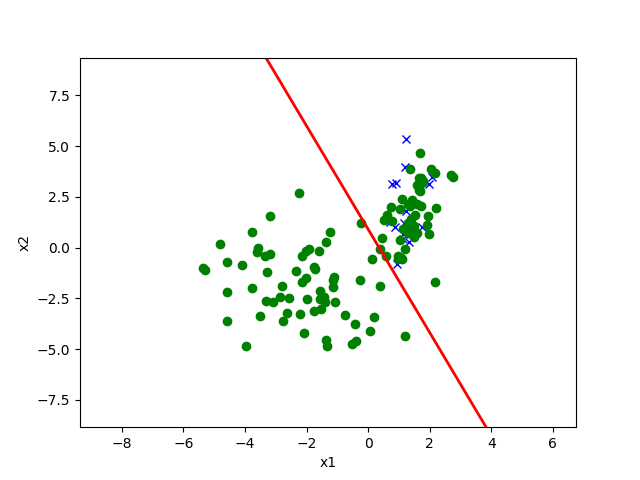
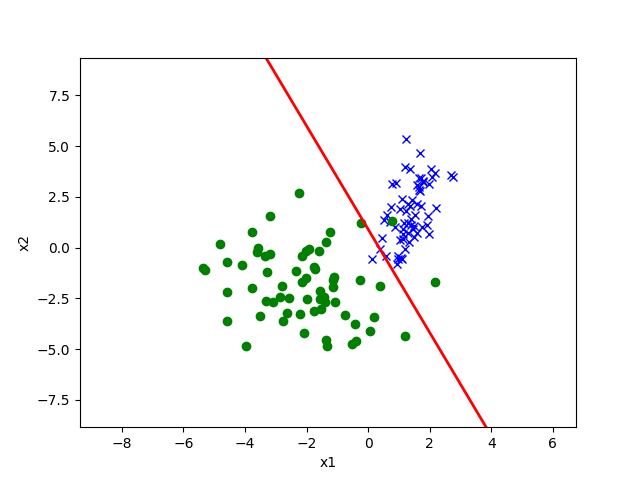
PosOnly working

Changed region(s): [[0.5625, 0.3125, 0.7188, 0.5625]]

diff --git a/posonly/posonly.py b/posonly/posonly.py
@@ -82,22 +82,22 @@ def main(train_path, valid_path, test_path, save_path):
 
     # Run CLF on the valid data set to generate the predictions on valid.
     # Use the predictions and y data to calculate alpha.
-    clf_valid = LogisticRegression()
-    clf_valid.fit(x_valid, t_valid)
+    clf_f = LogisticRegression()
+    clf_f.fit(x_train, t_train)
 
-    predictions_valid = clf_b.predict(x_valid)
+    predictions_for_valid = clf_f.predict(x_valid)
 
-    predicted_alpha = predict_alpha(y_valid, predictions_valid)
+    alpha = predict_alpha(t_valid, predictions_for_valid)
 
     # Run the CLF from part b on test data
-    clf_f = LogisticRegression(alpha = .7)
-    clf_f.fit(x_valid, y_valid)
 
     predictions = clf_f.predict(x_test)
+   
+    scaled_predictions = predictions * alpha
 
-    np.savetxt(output_path_adjusted, predictions * predicted_alpha)
+    np.savetxt(output_path_adjusted, scaled_predictions)
 
-    util.plot(x_test, y_test, clf_f.theta, "4F.png", correction=predicted_alpha)
+    util.plot(x_test, y_test, clf_f.theta, "4F.png", correction=alpha)
 
     # *** END CODER HERE
 
